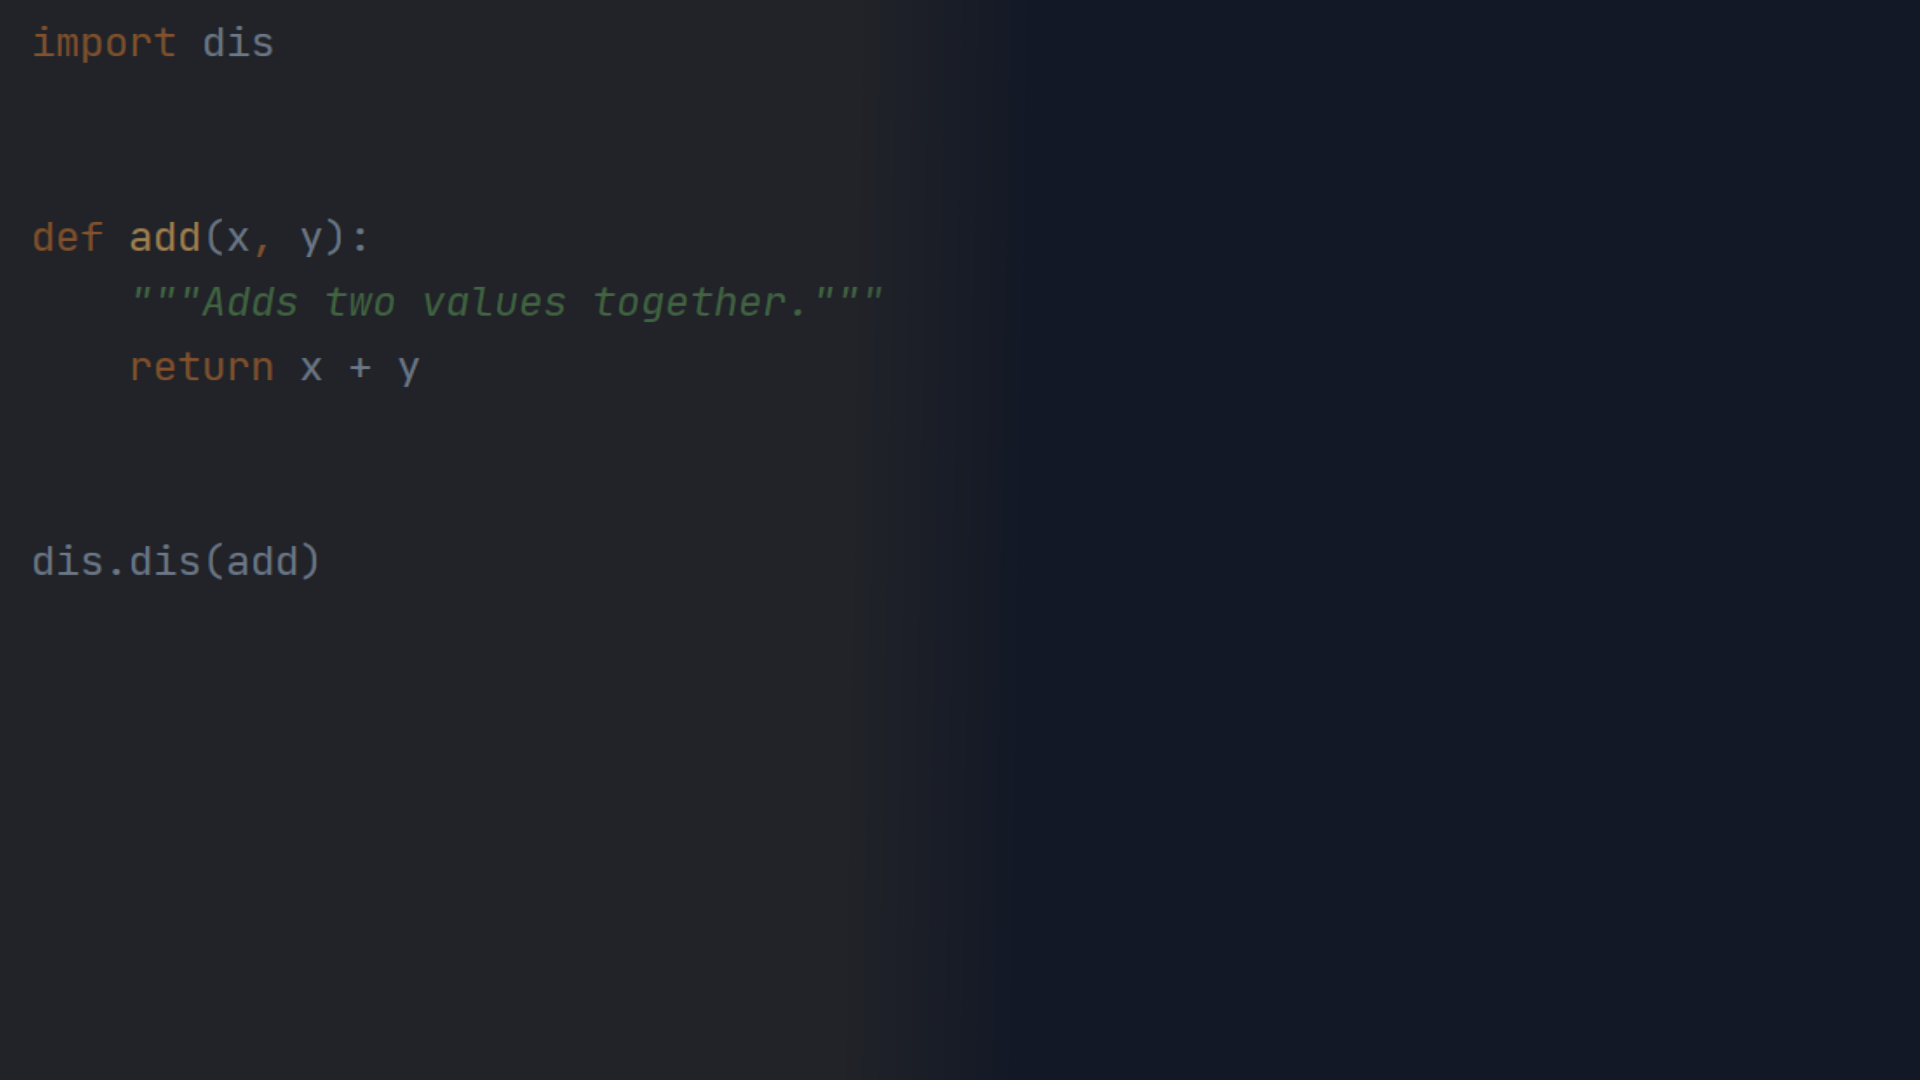
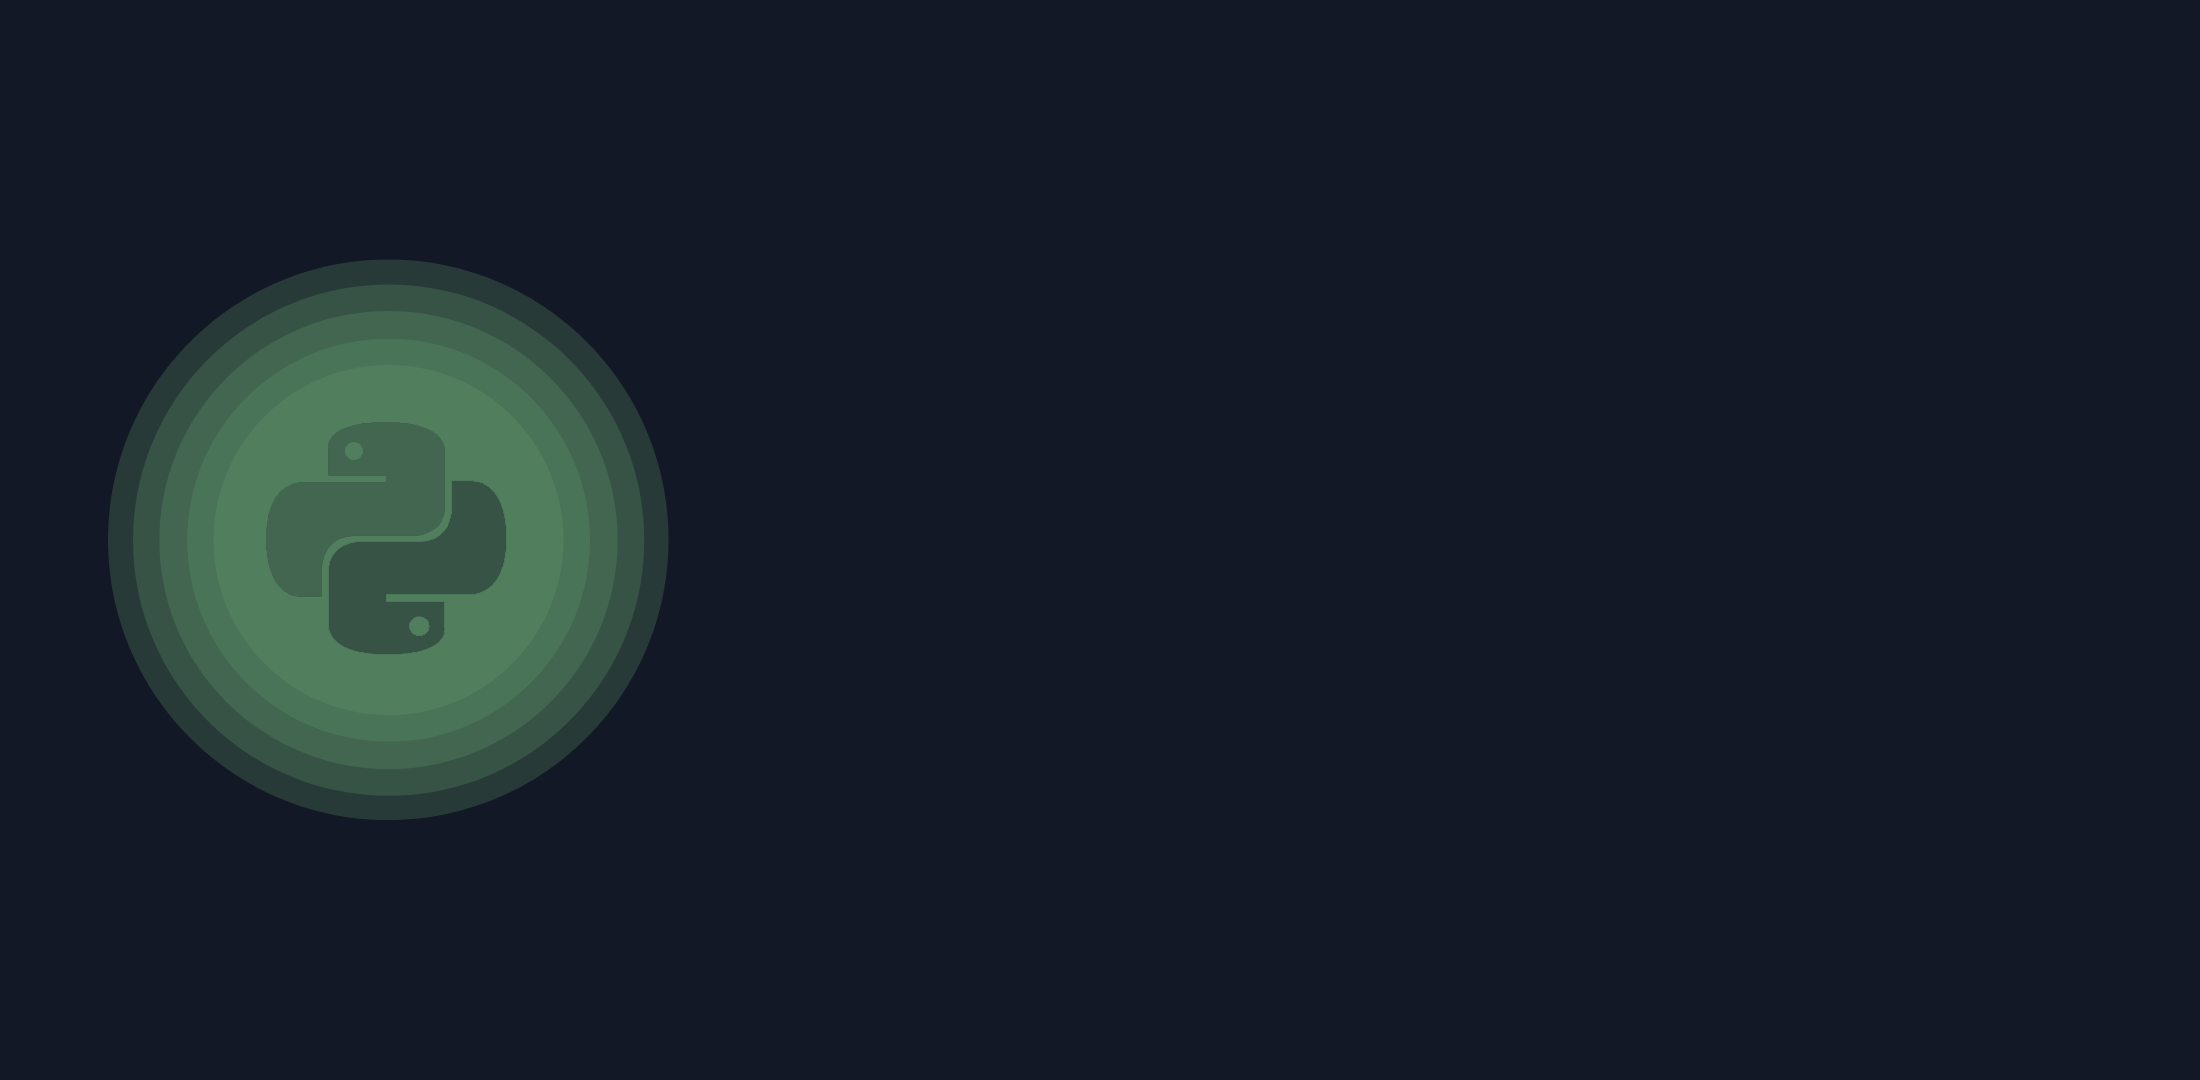
background redesign

Changed region(s): [[0.0, 0.1833, 0.4062, 0.7333], [0.0, 0.0306, 0.1562, 0.0611], [0.4375, 0.2444, 0.4688, 0.275]]

diff --git a/static/stylesheet.css b/static/stylesheet.css
@@ -4,13 +4,13 @@
   top: 0;
   left: 0;
   width: 100vw;
-  height: 100vh;
+  height: 100gvh;
   box-sizing: border-box;
   overflow-x: hidden;
   overflow-y: hidden;
   align-items: center;
   background: url('background.png');
-  background-attachment: fixed;
+  background-size: contain;
 }
 .centered {
     justify-content: center;
